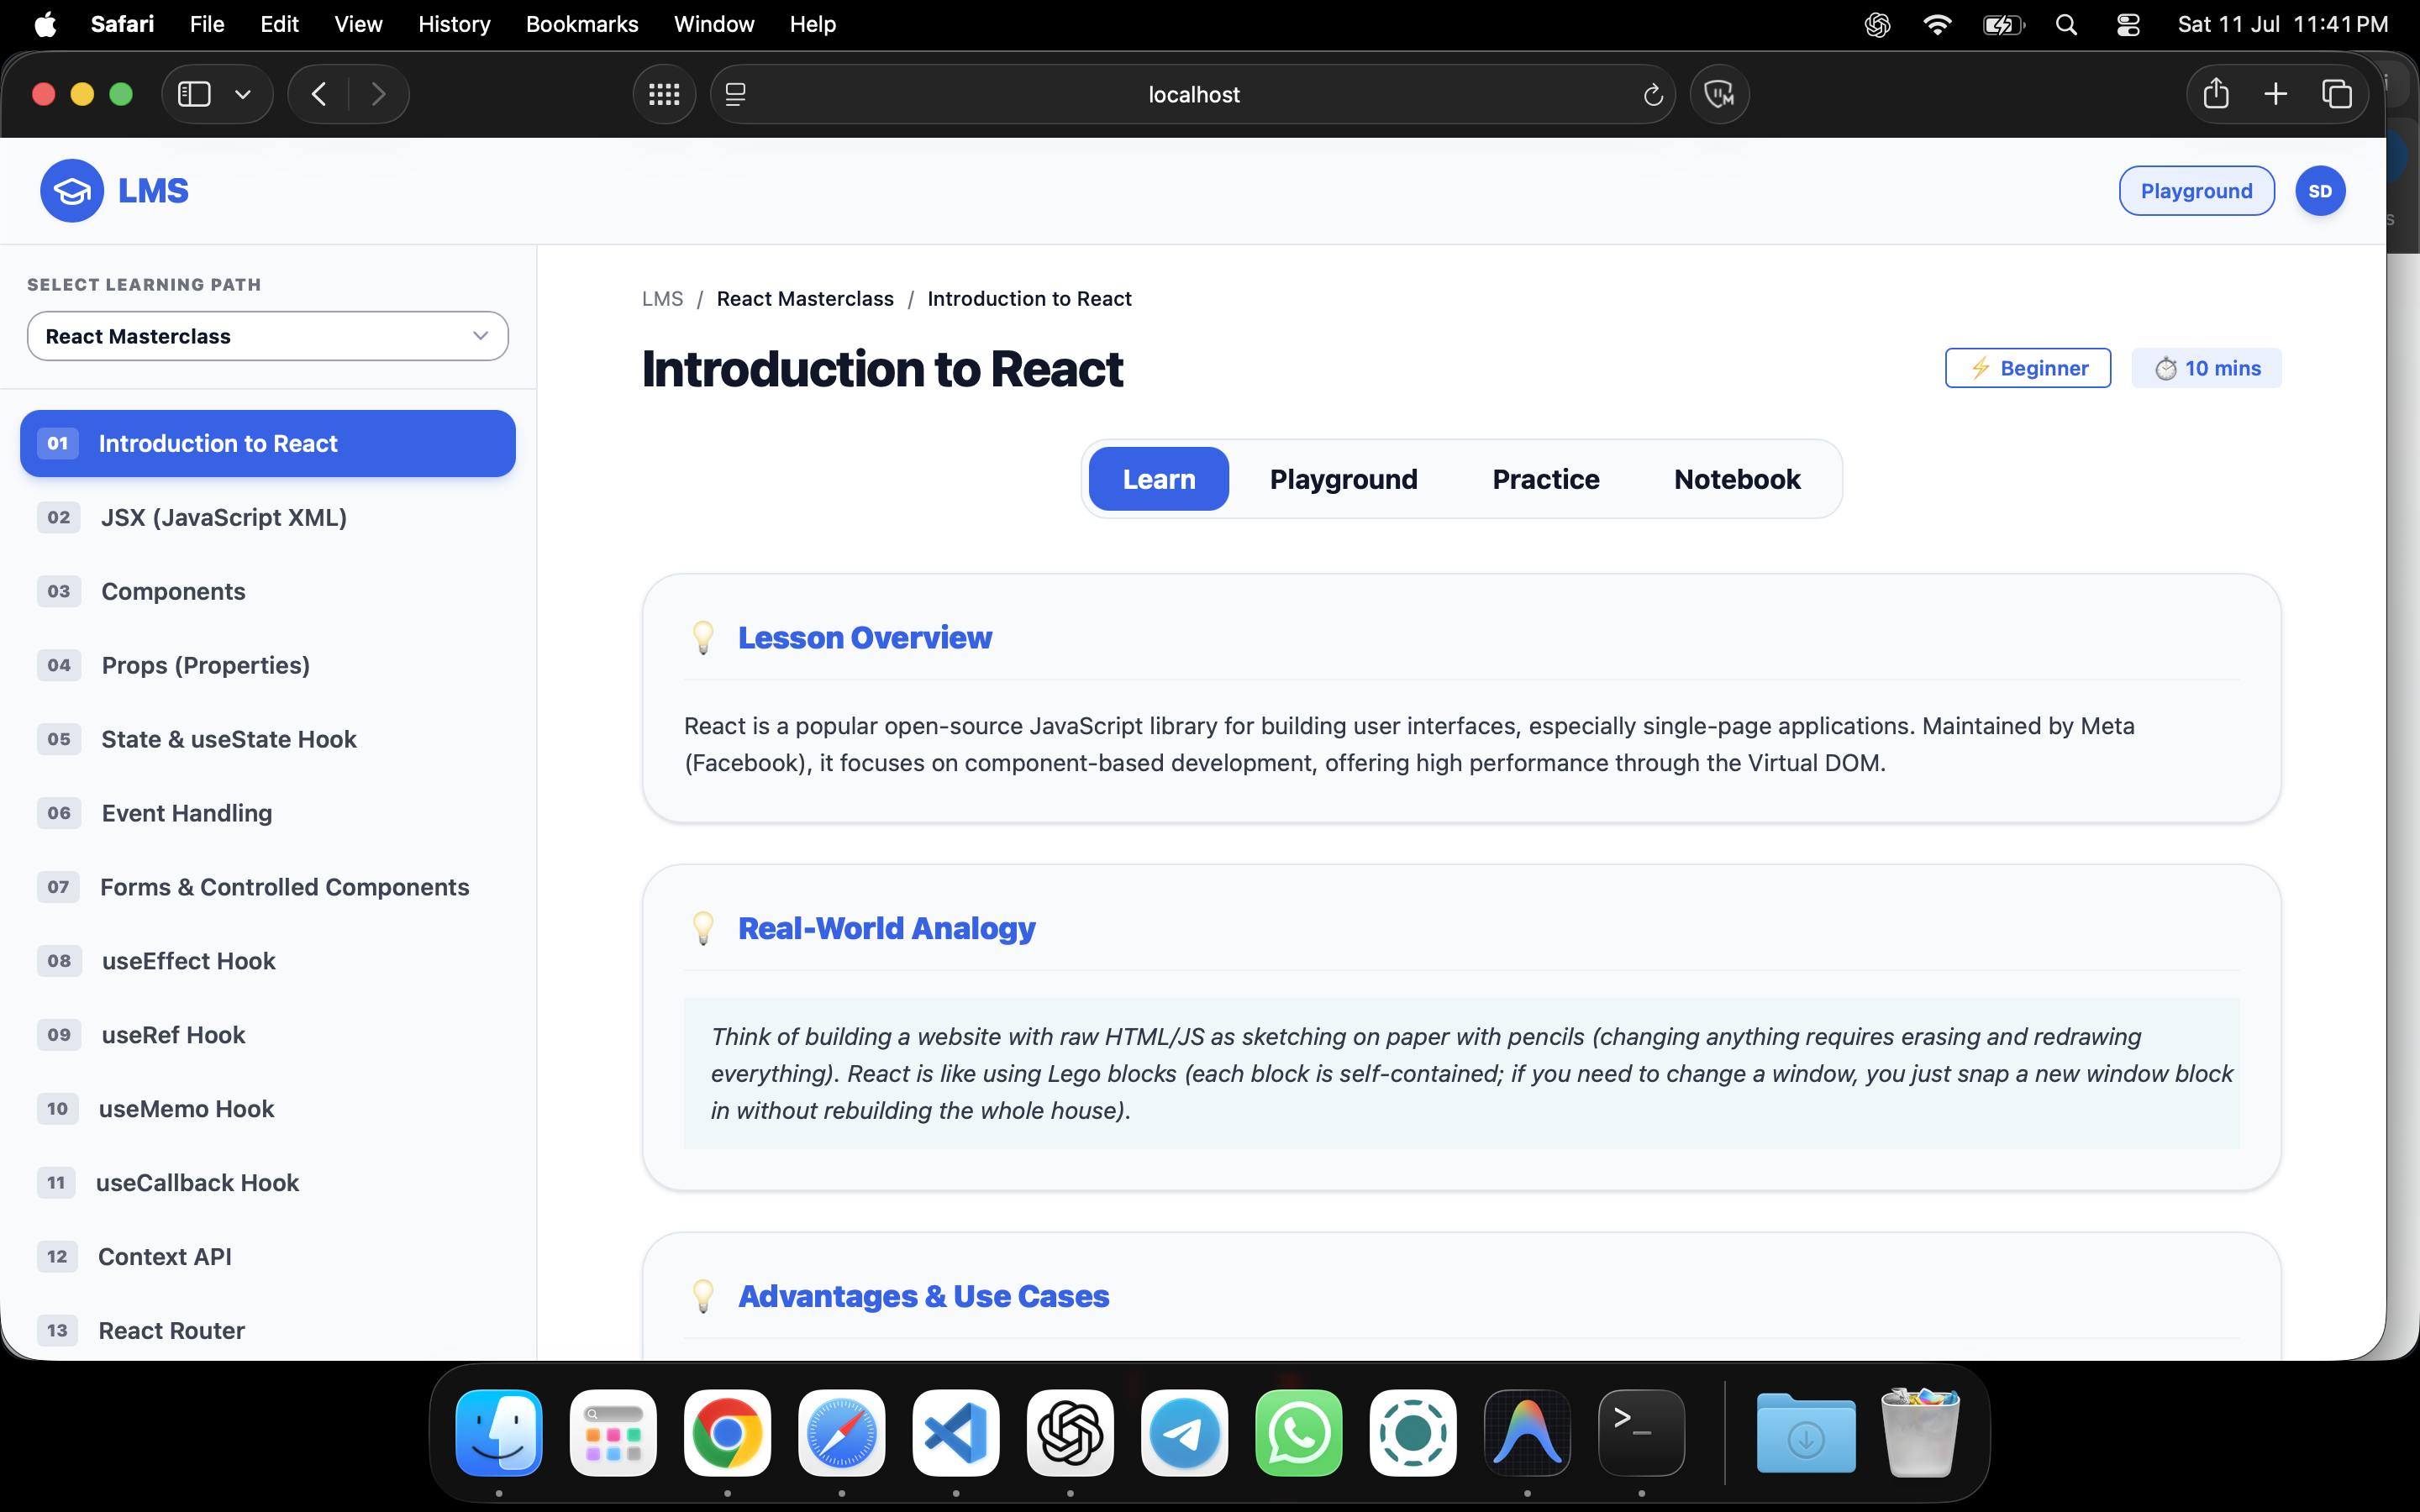
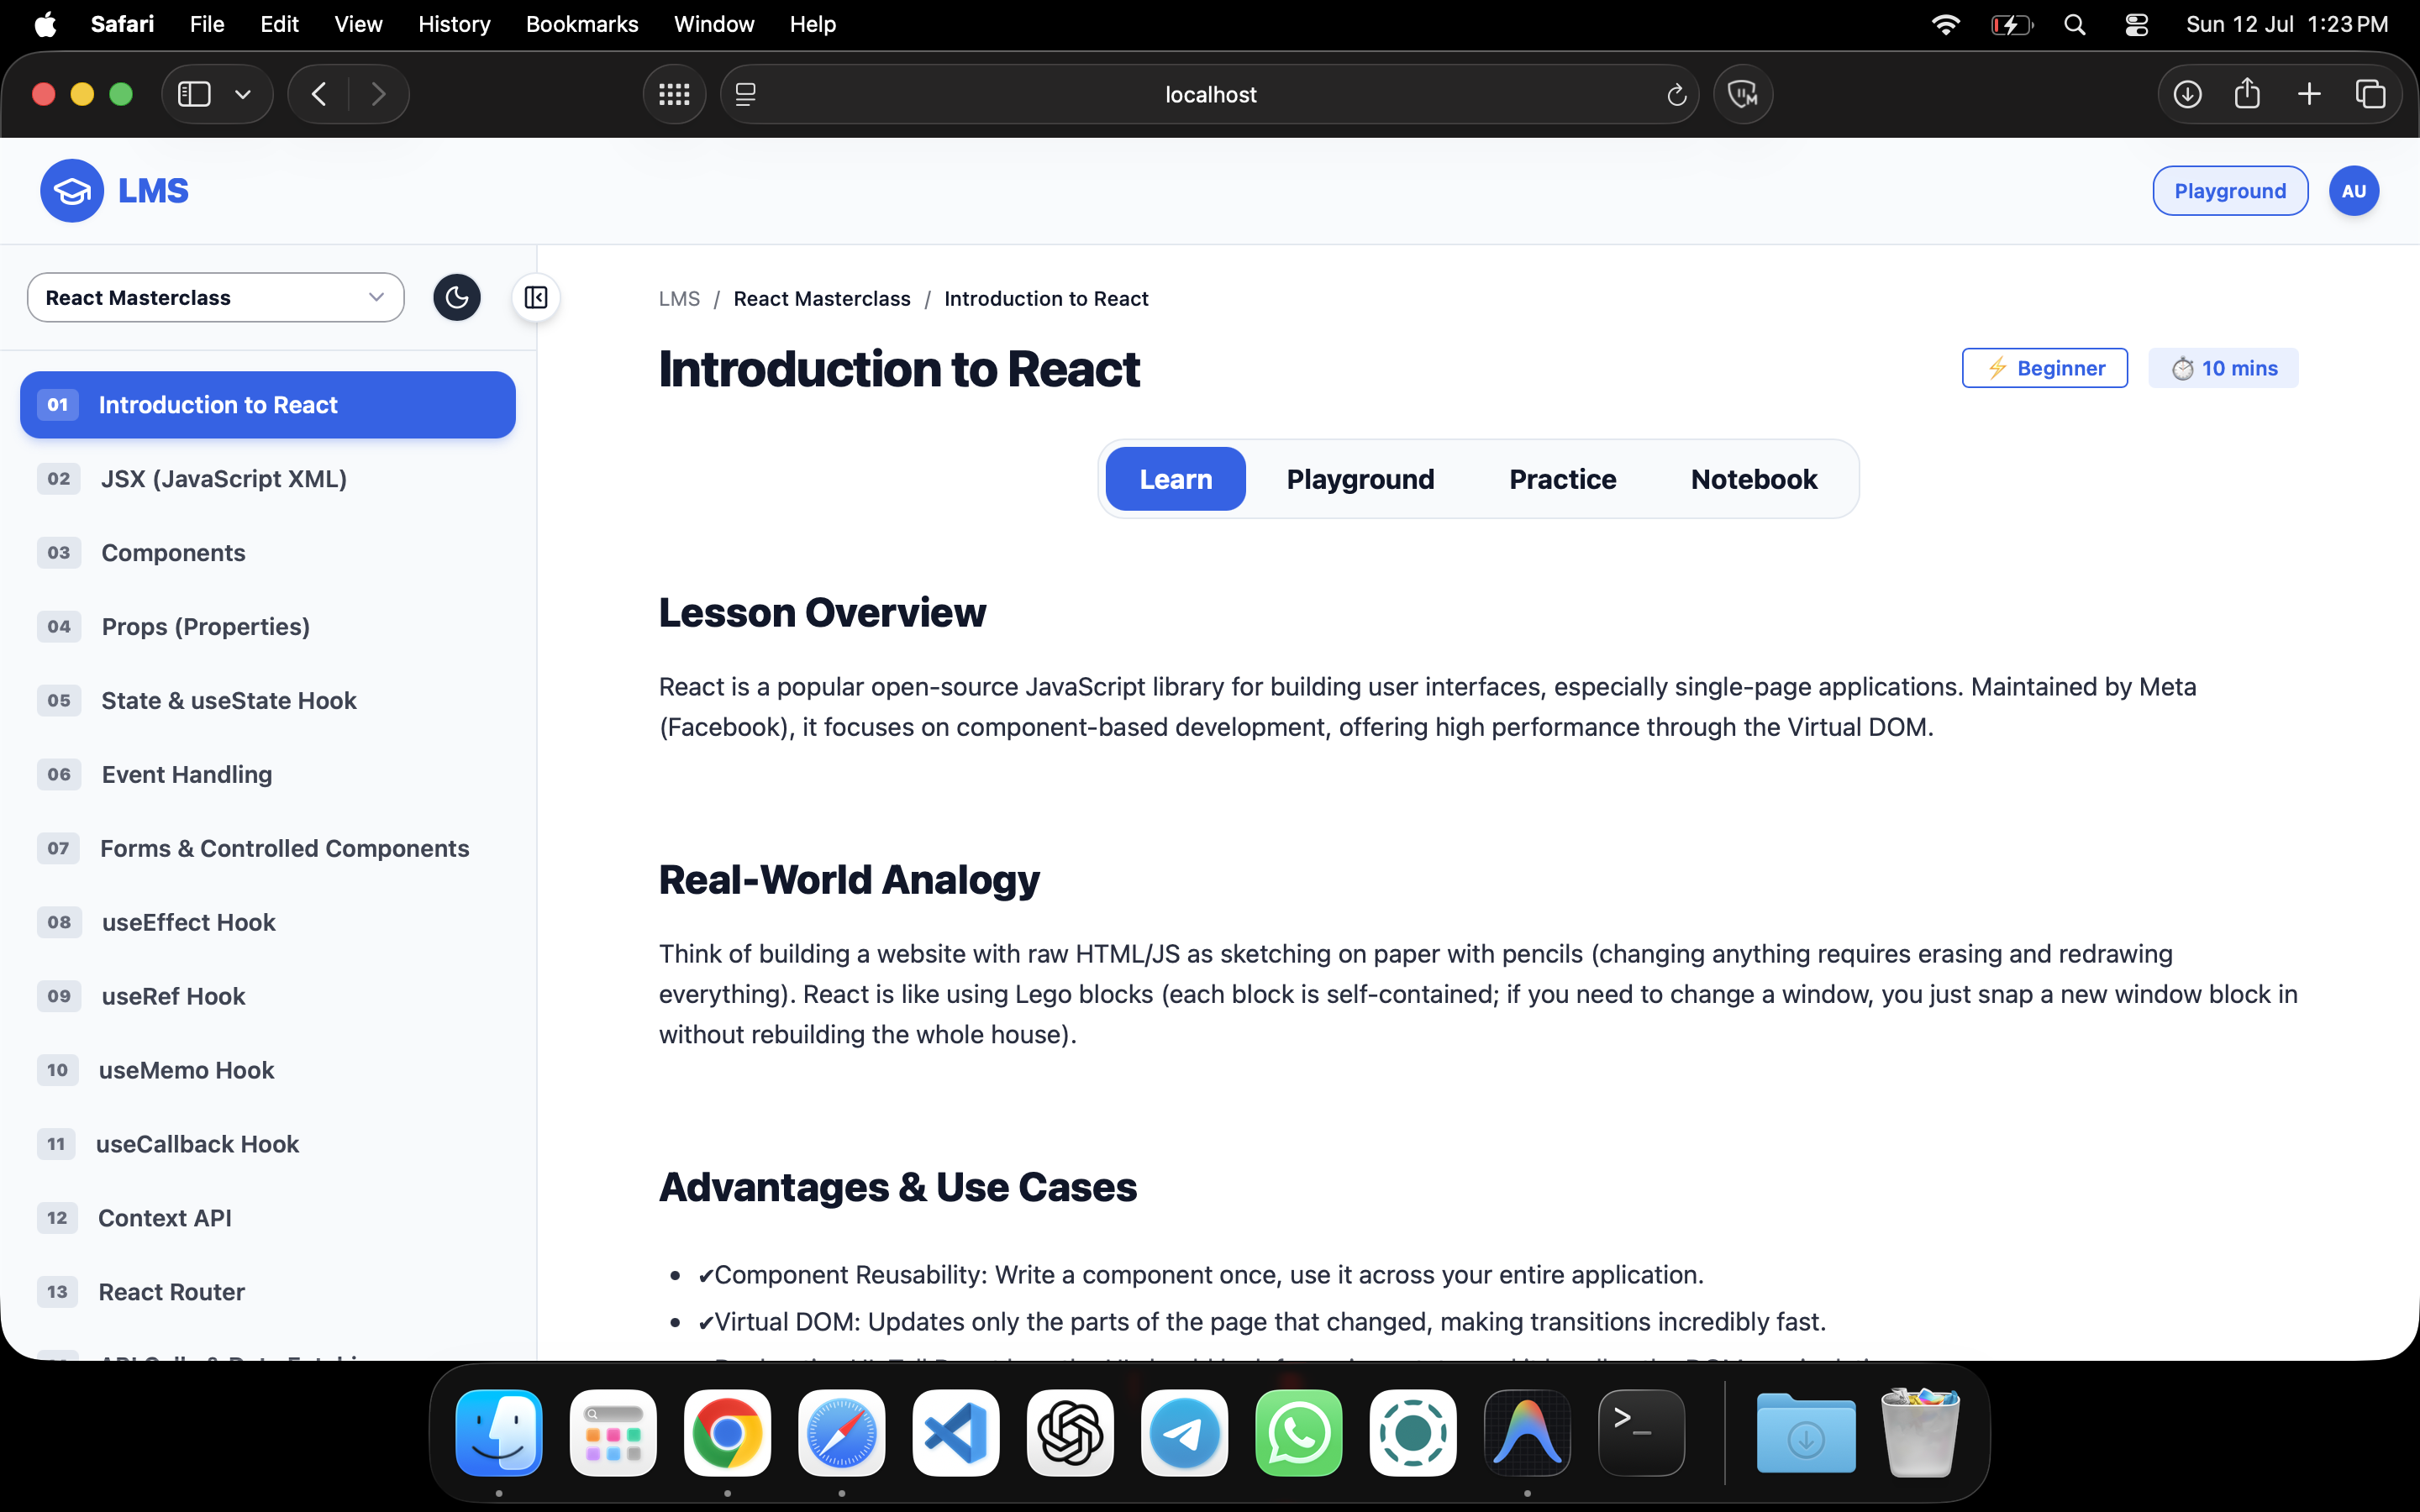
Readme.md updated

diff --git a/client/src/pages/Landing.jsx b/client/src/pages/Landing.jsx
@@ -2,6 +2,7 @@ import React, { useState, useEffect } from "react";
 import { Link, useNavigate } from "react-router-dom";
 import { motion } from "motion/react";
 import LmsImage from "../assets/images/lms.png";
+import ShivKumarSharma from "../assets/images/shivKumarSharma.png";
 import {
   GraduationCap,
   ArrowRight,
@@ -780,13 +781,17 @@ const Landing = () => {
           <div className="card border border-base-300/80 bg-base-100/60 backdrop-blur-sm rounded-3xl p-8 md:p-12 shadow-xl relative overflow-hidden">
             <div className="absolute top-0 right-0 w-24 h-24 bg-primary/5 rounded-full blur-2xl" />
             <div className="flex flex-col items-center text-center gap-6 max-w-2xl mx-auto">
-              <div className="w-12 h-12 rounded-full bg-primary/10 flex items-center justify-center text-primary">
-                <Heart size={20} className="fill-primary/20" />
+              <div className="w-48 h-48 rounded-full bg-primary/10 flex items-center justify-center text-primary">
+                <img
+                  src={ShivKumarSharma}
+                  alt="Shiv Kumar Sharma"
+                  className="w-full h-full object-cover rounded-full"
+                />
               </div>
 
               <div className="space-y-2">
                 <span className="text-[10px] font-black uppercase text-primary tracking-widest">
-                  Our Philosophy
+                  Shiv Kumar Sharma
                 </span>
                 <h3 className="text-2xl md:text-3xl font-black text-base-content">
                   Dedicated to a Teacher

diff --git a/README.md b/README.md
@@ -11,6 +11,10 @@ LMS is a highly interactive, premium web application designed to help developers
 - **📱 Responsive Mobile Support**: A dedicated mobile interface featuring dynamic sliding drawers, an adaptive header, and a bottom navigation menu to switch pages/subjects easily.
 - **📝 Built-in Rich-Text Notebook**: Take notes directly within the LMS as you learn. Notes are saved automatically to local storage.
 - **💡 Practice Workspace**: Test your knowledge with practice questions for each topic.
+- **🛡️ Role-Based Access Control**: Admins and Teachers can log in. Teachers are restricted to securely managing and evaluating only their assigned modules.
+- **🛠️ Dynamic CMS Dashboard**: Fully functional Admin Panel where courses, subjects, and topics can be created, updated, and reordered using a drag-and-drop interface. Uses `@imksh/editor` for rich-text authoring.
+- **🎓 Student Evaluations**: Teachers and admins can seamlessly review, grade, and provide feedback on paginated student submissions.
+- **⚡ Zustand Local Caching**: Highly optimized data fetching layer built with Zustand that intelligently caches API data, making app navigation instantaneous.
 - **🔄 Custom Scroll Restoration**: Custom-built page scroll management designed for layout-level scrolling containers.
 - **🌓 Dark/Light Mode**: Smooth theme toggling that persists across page reloads.
 
@@ -22,26 +26,26 @@ LMS is a highly interactive, premium web application designed to help developers
 ├── client/
 │   ├── public/              # Static assets and PWA manifest
 │   ├── src/
-│   │   ├── assets/          # Data files (e.g., topicsContent.js)
 │   │   ├── components/      # UI components (Header, Sidebar, Sandbox, Tabs)
-│   │   ├── layouts/         # Layout components (LMSLayout)
-│   │   ├── pages/           # Pages (Home, Playground)
+│   │   │   └── admin/       # CMS Modals, List views, and Topic Editor
+│   │   ├── layouts/         # Layout components (LMSLayout, AdminLayout)
+│   │   ├── pages/           # Pages (Home, Playground, AdminCMSPage, AdminUsers)
+│   │   ├── services/        # API layer (cmsService, submissionService, userService)
 │   │   ├── store/           # Zustand stores for auth, sidebar and layout state
+│   │   ├── stores/          # Zustand store for local API caching (useCacheStore)
 │   │   ├── App.jsx          # Root application component and React Router setup
 │   │   └── main.jsx         # Application entry point
 │   ├── package.json         # Project dependencies and script targets
 │   └── vite.config.js       # Vite configuration (with API proxy)
 ├── server/
 │   ├── src/
-│   │   ├── controllers/     # HTTP request controllers (auth, notes, progress, answers)
-│   │   ├── middleware/      # Router preprocessors (JWT auth, global error handler)
-│   │   ├── models/          # Mongoose database schemas (User, Note, Progress, Answer)
+│   │   ├── controllers/     # HTTP request controllers (auth, cms, module, submission)
+│   │   ├── middleware/      # Router preprocessors (JWT auth, role-based admin filtering)
+│   │   ├── models/          # Mongoose database schemas (User, Topic, Subject, Module, Submission)
 │   │   ├── routes/          # Express route bindings
-│   │   ├── services/        # Database query layers & business logic
 │   │   ├── utils/           # Mongoose connect, JWT signature helpers
 │   │   ├── app.js           # Express app configuring CORS, json parsing, endpoints
 │   │   └── index.js         # Entry server listener
-│   ├── test/                # Integration endpoints tests (api.test.js) using Jest ESM
 │   ├── package.json         # Server scripts (dev, test, start) and requirements
 │   └── .env                 # Server configuration env variables
 └── README.md                # Project documentation
@@ -112,10 +116,3 @@ LMS is a highly interactive, premium web application designed to help developers
 - **Database**: MongoDB, Mongoose ODM
 - **Security**: JSON Web Tokens (JWT), bcryptjs password hashing
 - **Testing**: Jest, Supertest
-
----
-
-## 🔮 Future Roadmap
-
-- **Admin Dashboard**: Dedicated admin panels for creators to manage courses, view learner analytics, and modify curriculum structure.
-- **Dynamic Course Content**: Rich-text authoring using the customized [@imksh/editor](https://www.npmjs.com/package/@imksh/editor) for creating and updating study material dynamically from the UI.